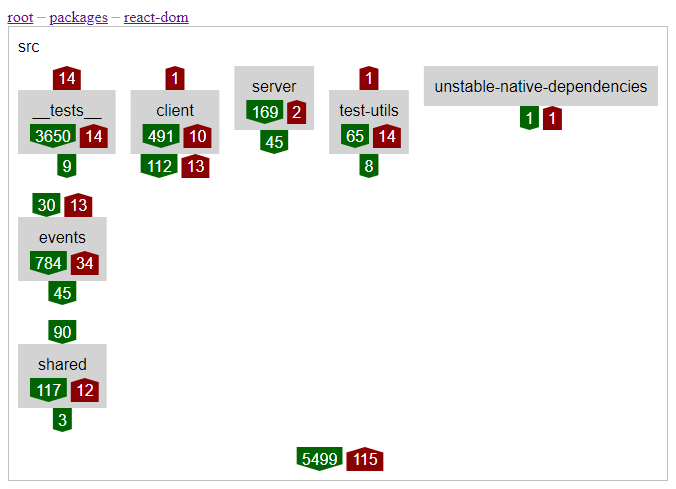
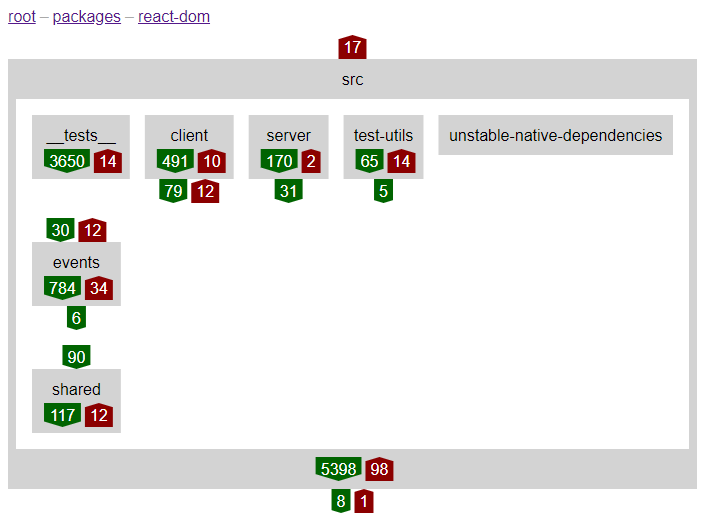
React case study updated with 7.16.0

Changed region(s): [[0.0, 0.0613, 0.9941, 1.0], [0.0, 0.0, 0.3107, 0.0613]]

diff --git a/case-studies/react/index.html b/case-studies/react/index.html
@@ -83,19 +83,15 @@ Unexpected token, expected ";" (14:5)</code>
         <p>You can interact with Eunice's dogfooding <a href="../../dogfooding" target="_blank">here</a>.</p>
         <h3 id="inferred-stacks">inferred stacks</h3>
         <p>When an order isn't defined for items (e.g. the file-system) Eunice can infer stacks for items that only have uni-directional dependencies.</p>
-        <p>Selecting the packages directory will open it and show that Eunice has inferred two levels, of three items each:</p>
+        <p>Selecting the packages directory will open it and show that Eunice has inferred 7 levels. The wider level near the middle has bi-directional dependencies (red horizontal arrows) and so hasn't been split up further:</p>
         <img alt="Eunice shown to have inferred stacks for React's packages directory" src="./2-inferred-stacks-packages.png"/>
         <h3 id="directory-specific-stacks">directory specific stacks</h3>
-        <p>A stack can also be specified by creating a YAML file in a directory. Eunice automatically looks for files named .eunice-stack.yaml saved with the code.</p>
+        <p>As well as inference, a stack can also be specified explicitly by creating a YAML file in a directory. Eunice automatically looks for files named .eunice-stack.yaml saved with the code.</p>
         <p>I've worked through React, created 13 stack files and committed them to the Git branch.</p>
         <p>The stacks have resolved all the remaining 990 unstructured dependencies; however, I wasn't able to define structures that would make all dependencies go in the same direction. These mismatching dependencies are shown in the red up arrow count of 653 below:</p>
         <img alt="Eunice showing total dependency counts of React after adding stacks manually" src="./10-individual-file-stacks-root.png"/>
         <p>You can see more specific dependency count arrows and the structure I chose, by looking inside React's packages sub-directory:</p>
-        <code>- [ react-devtools, react-devtools-shell ]
-- [ react-devtools-core, react-devtools-inline ]
-- - react-devtools-extensions
-- [ react-devtools-shared, react-art, react-interactions, react-refresh ]
-- - react-test-renderer
+        <code>- - existing
 - [ react-dom, react-native-renderer, react-noop-renderer ]
 - [ legacy-events, react-flight, react-reconciler, react-server ]
 - [ create-subscription, jest-mock-scheduler, jest-react, react-cache, react-is, react-stream, use-subscription ]
@@ -119,23 +115,25 @@ Unexpected token, expected ";" (14:5)</code>
 - [ ReactFiberNewContext, ReactFiberReconciler ]
 - - existing</code>
         <br/>
-        <img alt="Eunice showing the React Reconciler package after adding stacks manually" src="13-react-reconciler.png" />
+        <a class="image" href="./13-react-reconciler.png" target="_blank">
+            <img alt="Eunice showing the React Reconciler package after adding stacks manually" src="./13-react-reconciler.png" />
+        </a>
         <h3 id="groups">groups</h3>
         <p>The packages directory has enough items and levels that it can be hard to remember what all the dependency relationships are. This can be improved by grouping items that share concepts and dependency relationships.</p>
         <p>The six sub-directories highlighted below could be grouped, as they all relate to devtools and can be stacked together due to cohesive dependencies:</p>
         <img alt="Potential grouping of devtools highlighted in Eunice" src="./14-devtools-highlighted.png" />
         <p>To investigate how this might look the Eunice stack file in the packages directory can be modified. I've added a new item named react-devtools-group and moved the six related items inside it:</p>
-        <code><span class="new">- - id: react-devtools-group
+        <code><span class="new">- - existing
+- - id: react-devtools-group
     dependencyPermeable: true
     items:
       - [ react-devtools, react-devtools-shell ]
       - [ react-devtools-core, react-devtools-inline ]
       - - react-devtools-extensions
-      - - react-devtools-shared</span>
-- [ react-art, react-interactions, react-refresh ]
+      - - react-devtools-shared
 - - react-test-renderer
 - [ react-dom, react-native-renderer, react-noop-renderer ]
-- [ legacy-events, react-reconciler ]
+- [ legacy-events, react-flight, react-reconciler, react-server ]
 - [ create-subscription, jest-mock-scheduler, jest-react, react-cache, react-is, react-stream, use-subscription ]
 - [ babel-plugin-react-jsx, eslint-plugin-react-hooks, react, react-debug-tools, scheduler, shared ]</code>
         <p>The new item has been marked in the YAML as dependencyPermeable so that Eunice's dependency resolution will look inside it even though it won't be specified in the code's import statement paths.</p>

diff --git a/case-studies/images.css b/case-studies/images.css
@@ -1,7 +1,12 @@
 body > .content > img,
+body > .content > a.image,
 .image-right > img {
 	display: block;
 	margin: 0 auto;
+}
+
+body > .content > a.image {
+	text-align: center;
 }
 
 @media (min-width: 52em) {
